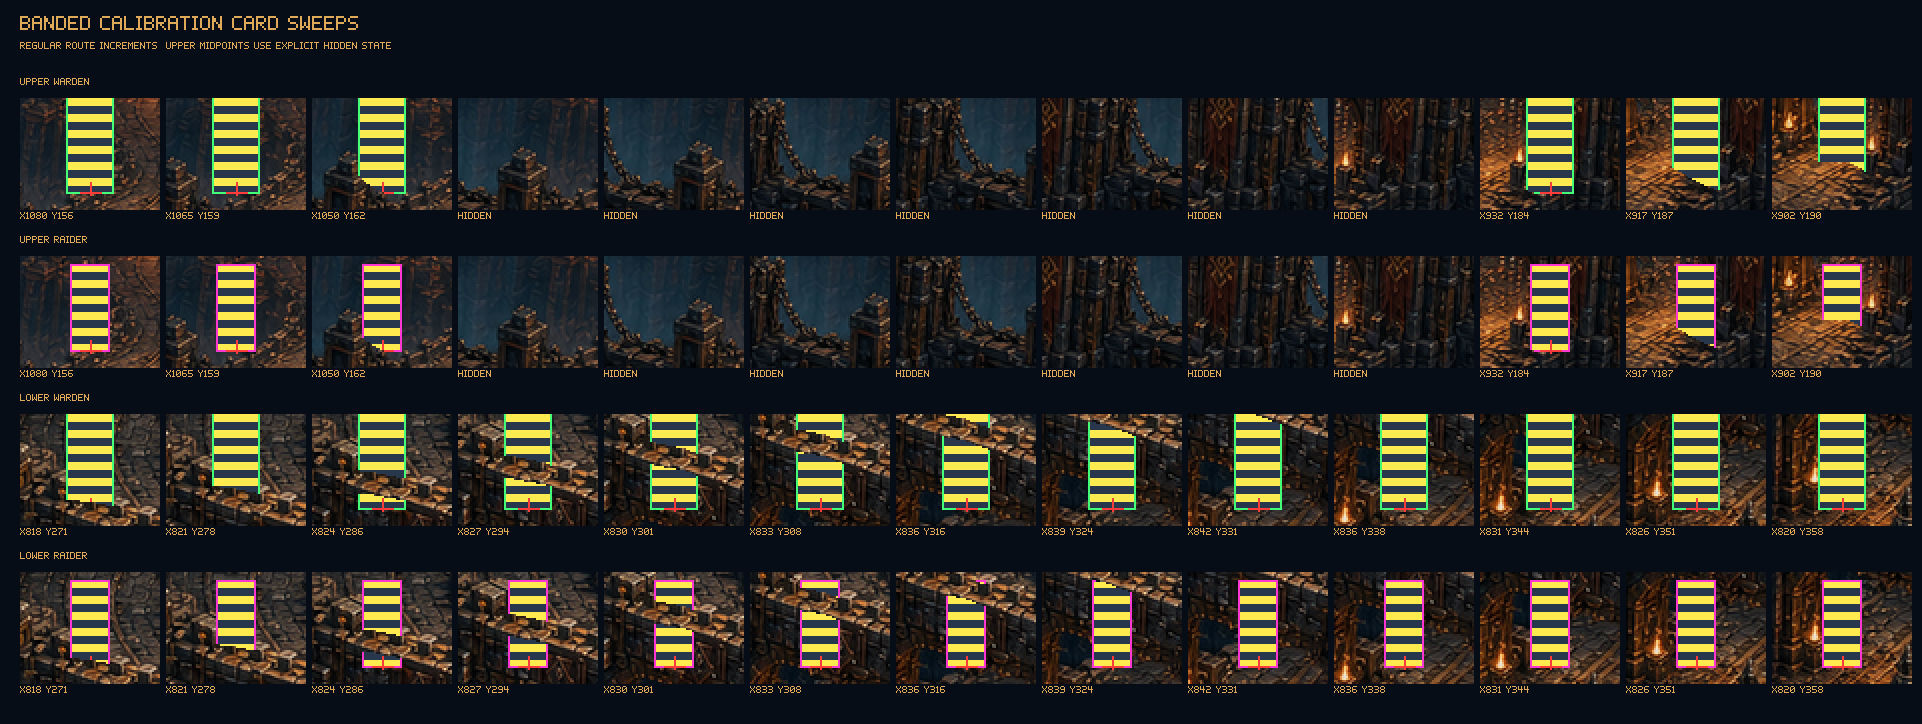
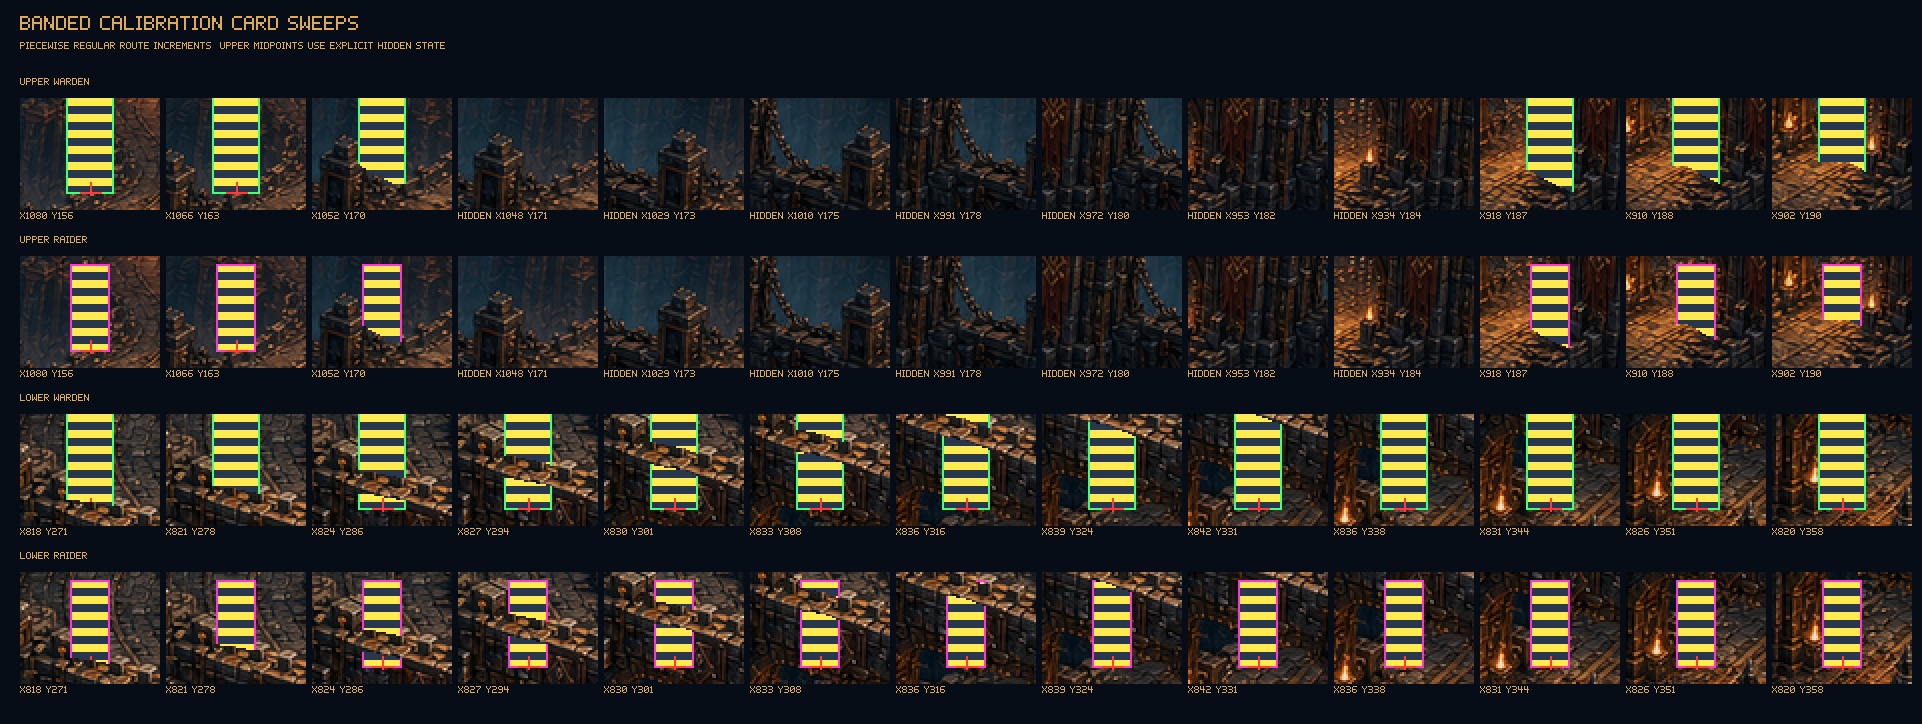
fix: bind portal sweep to canonical hidden segment

diff --git a/assets/game-art/production-scene/build_scene.py b/assets/game-art/production-scene/build_scene.py
@@ -1838,7 +1838,18 @@ def _line_positions_v6(
 
 def _portal_sweep_positions_v6(portal: dict[str, Any]) -> list[tuple[int, int]]:
     if portal["id"] == "portal.upper-gate":
-        return _line_positions_v6((1080, 156), (902, 190), 13)
+        samples = portal["samples"]
+        hidden_state = portal["explicitHiddenState"]
+        approach = _line_positions_v6(
+            tuple(samples["approach"]), tuple(samples["lastVisibleLip"]), 3
+        )
+        hidden = _line_positions_v6(
+            tuple(hidden_state["from"]), tuple(hidden_state["to"]), 7
+        )
+        emerged = _line_positions_v6(
+            tuple(samples["firstVisibleLip"]), tuple(samples["emerged"]), 3
+        )
+        return [*approach, *hidden, *emerged]
     incoming = _line_positions_v6((818, 271), (842, 331), 9)
     outgoing = _line_positions_v6((842, 331), (820, 358), 5)
     return [*incoming, *outgoing[1:]]
@@ -1846,9 +1857,19 @@ def _portal_sweep_positions_v6(portal: dict[str, Any]) -> list[tuple[int, int]]:
 
 def _upper_explicit_hidden_v6(portal: dict[str, Any], ground: tuple[int, int]) -> bool:
     state = portal["explicitHiddenState"]
-    minimum_x = min(state["from"][0], state["to"][0])
-    maximum_x = max(state["from"][0], state["to"][0])
-    return minimum_x <= ground[0] <= maximum_x
+    start_x, start_y = state["from"]
+    end_x, end_y = state["to"]
+    delta_x = end_x - start_x
+    delta_y = end_y - start_y
+    point_x = ground[0] - start_x
+    point_y = ground[1] - start_y
+    length_squared = delta_x * delta_x + delta_y * delta_y
+    projection = point_x * delta_x + point_y * delta_y
+    cross = point_x * delta_y - point_y * delta_x
+    return (
+        0 <= projection <= length_squared
+        and cross * cross <= length_squared * 4
+    )
 
 
 def _portal_diagnostic_sweep_v6(
@@ -1870,7 +1891,7 @@ def _portal_diagnostic_sweep_v6(
     board = Image.new("RGBA", (24 + 13 * (cell[0] + gap), 92 + 4 * 158), (7, 13, 22, 255))
     heading = "SOLID SILHOUETTE PROXY SWEEPS" if subject_kind == "solid" else "BANDED CALIBRATION CARD SWEEPS"
     pixel_text(board, (20, 16), heading, 2)
-    pixel_text(board, (20, 42), "REGULAR ROUTE INCREMENTS  UPPER MIDPOINTS USE EXPLICIT HIDDEN STATE", 1)
+    pixel_text(board, (20, 42), "PIECEWISE REGULAR ROUTE INCREMENTS  UPPER MIDPOINTS USE EXPLICIT HIDDEN STATE", 1)
     for row_index, (label, portal, key, asset, pivot) in enumerate(rows):
         positions = _portal_sweep_positions_v6(portal)
         y = 78 + row_index * 158
@@ -1889,7 +1910,7 @@ def _portal_diagnostic_sweep_v6(
             ).resize(cell, Image.Resampling.NEAREST)
             x = 20 + column * (cell[0] + gap)
             board.alpha_composite(panel, (x, y + 20))
-            state = "HIDDEN" if hidden_state else f"X{ground[0]} Y{ground[1]}"
+            state = f"{'HIDDEN ' if hidden_state else ''}X{ground[0]} Y{ground[1]}"
             pixel_text(board, (x, y + 134), state, 1)
     return board
 
@@ -3050,6 +3071,18 @@ def verify(root: Path = ROOT) -> None:
                 },
                 "scene.route.portals[0].explicitHiddenState",
             )
+            upper_sweep = _portal_sweep_positions_v6(portal)
+            if (
+                list(upper_sweep[0]) != samples["approach"]
+                or list(upper_sweep[2]) != samples["lastVisibleLip"]
+                or list(upper_sweep[-3]) != samples["firstVisibleLip"]
+                or list(upper_sweep[-1]) != samples["emerged"]
+                or _upper_explicit_hidden_v6(portal, (982, 500))
+                or any(_upper_explicit_hidden_v6(portal, point) for point in upper_sweep[:3])
+                or any(_upper_explicit_hidden_v6(portal, point) for point in upper_sweep[-3:])
+                or not all(_upper_explicit_hidden_v6(portal, point) for point in upper_sweep[3:-3])
+            ):
+                raise ValueError("Upper sweep must follow canonical lips and portal-local hidden state")
         elif portal["explicitHiddenState"] is not None:
             raise ValueError("Lower portal must use its lintel/jamb mask, not a hidden state")
         segments = portal["segments"]
